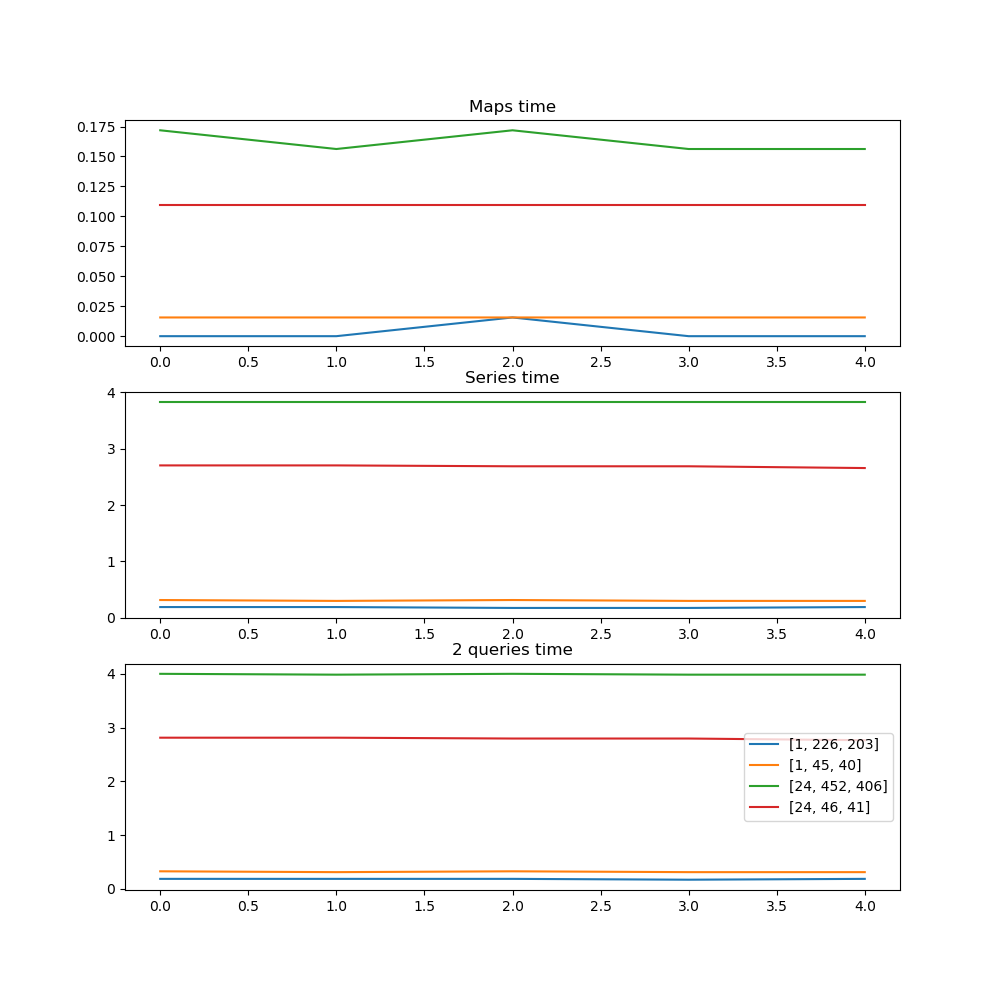
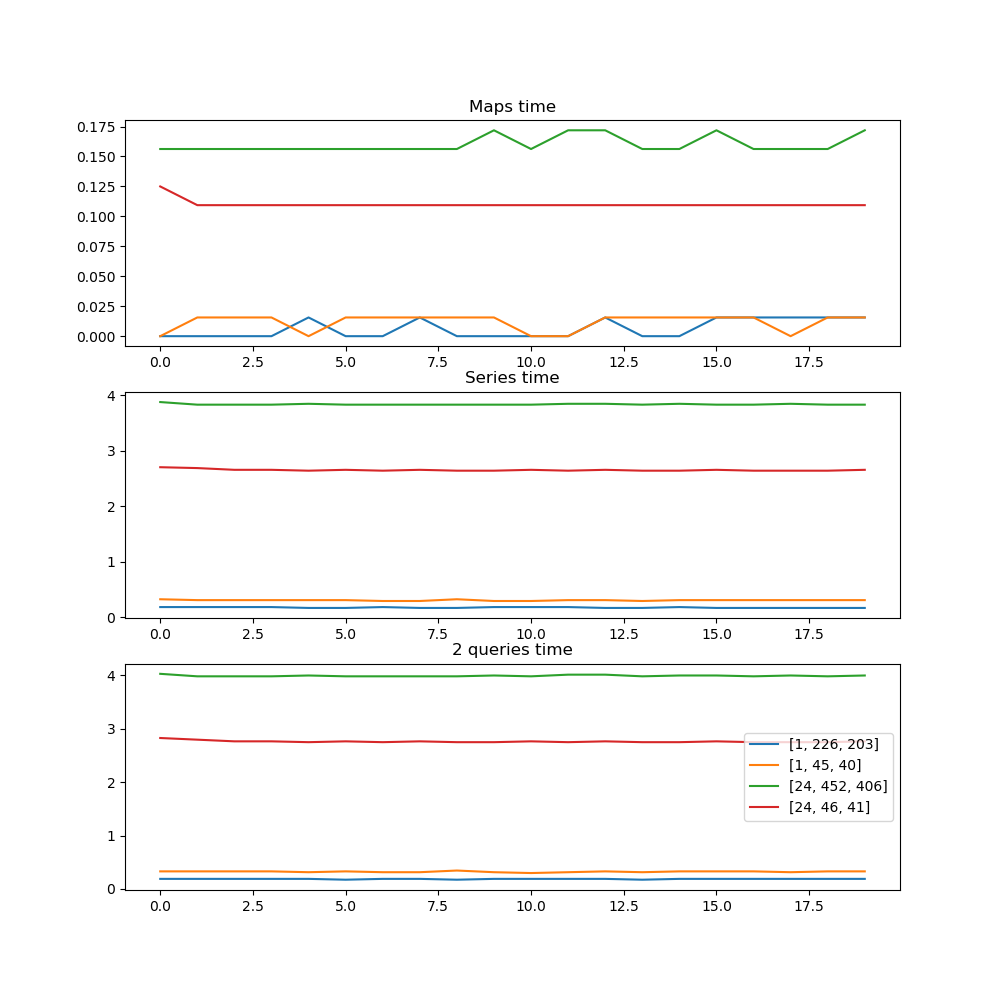
Update #2

diff --git a/test_alt.py b/test_alt.py
@@ -1,0 +1,95 @@
+from netCDF4 import Dataset
+import time
+import os
+import pickle
+from random import randint
+
+def get_netcdf_files(dir):
+	root_dir = dir
+	files = []
+	content = os.listdir(dir)
+	for f in content:
+		path = os.path.join(root_dir, f)
+		if os.path.isfile(path):
+			if'.nc' in path:
+				files.append(path)
+		if os.path.isdir(path):
+			for file in get_books_files(path):
+				if '.nc' in file:
+					files.append(file)
+	return files
+
+def get_map(ds, param, t, depth=0):
+	start = time.time()
+	if param == 'vomecrty':
+		result = ds.variables[param][t]
+	else:
+		result = ds.variables[param][t][depth]
+	end = time.time()
+	return result, end - start
+	
+def get_series(ds, param, x, y, depth=0):
+	start = time.time()
+	if param == 'vomecrty':
+		for t in range(24):
+			result = ds.variables[param][t][depth][x][y]
+	else:
+		result = ds.variables[param][:][depth][x][y]
+	end = time.time()
+	return result, end - start
+	
+
+path = input()
+N = int(input())
+
+print(get_netcdf_files(path + '/'))
+
+for file in get_netcdf_files(path + '/'):
+	if 'data' not in file:
+		continue
+		
+	dataset = Dataset(file)
+	
+	t_series = 0
+	t_maps = 0
+	
+	series_time = []
+	maps_time = []
+	sums = []
+	
+	for _ in range(N):
+		if (N % 10 == 0):
+			print(N)
+		_, t_ser = get_series(dataset, 'vomecrty', randint(0, 451), randint(0, 405))
+		_, t_map = get_map(dataset, 'vomecrty', randint(0, 23))
+		t_series += t_ser
+		t_maps += t_map
+		
+		series_time.append(t_ser)
+		maps_time.append(t_map)
+		sums.append(t_ser + t_map)
+		
+	all_time = sum(sums)
+	
+	print('Series times %s' % str(series_time))
+	print('Maps times %s' % str(maps_time))
+	
+	print('Configuration %s has taken %f secons' % (str(dataset.variables['vomecrty'].chunking()), all_time))
+	
+	print('Median time %f' % sorted(sums)[len(sums) // 2])
+	print('Average time %f' % (sum(sums) / len(sums)))
+	
+	data = {}
+	data['Configuration'] = list(dataset.variables['vomecrty'].chunking())
+	data['N'] = N
+	data['Average time'] = sum(sums) / len(sums)
+	data['Median time'] = sorted(sums)[len(sums) // 2]
+	data['All time'] = all_time
+	data['Maps time'] = maps_time
+	data['Series time'] = series_time
+	data['2 queries time'] = sums
+		
+	with open('%s/%s%s.pkl' % (path, str(dataset.variables['vomecrty'].chunking()), path), 'wb') as f:
+		pickle.dump(data, f)
+	
+	print("All data has been saved to %s.pkl" % str(dataset.variables['vomecrty'].chunking()))
